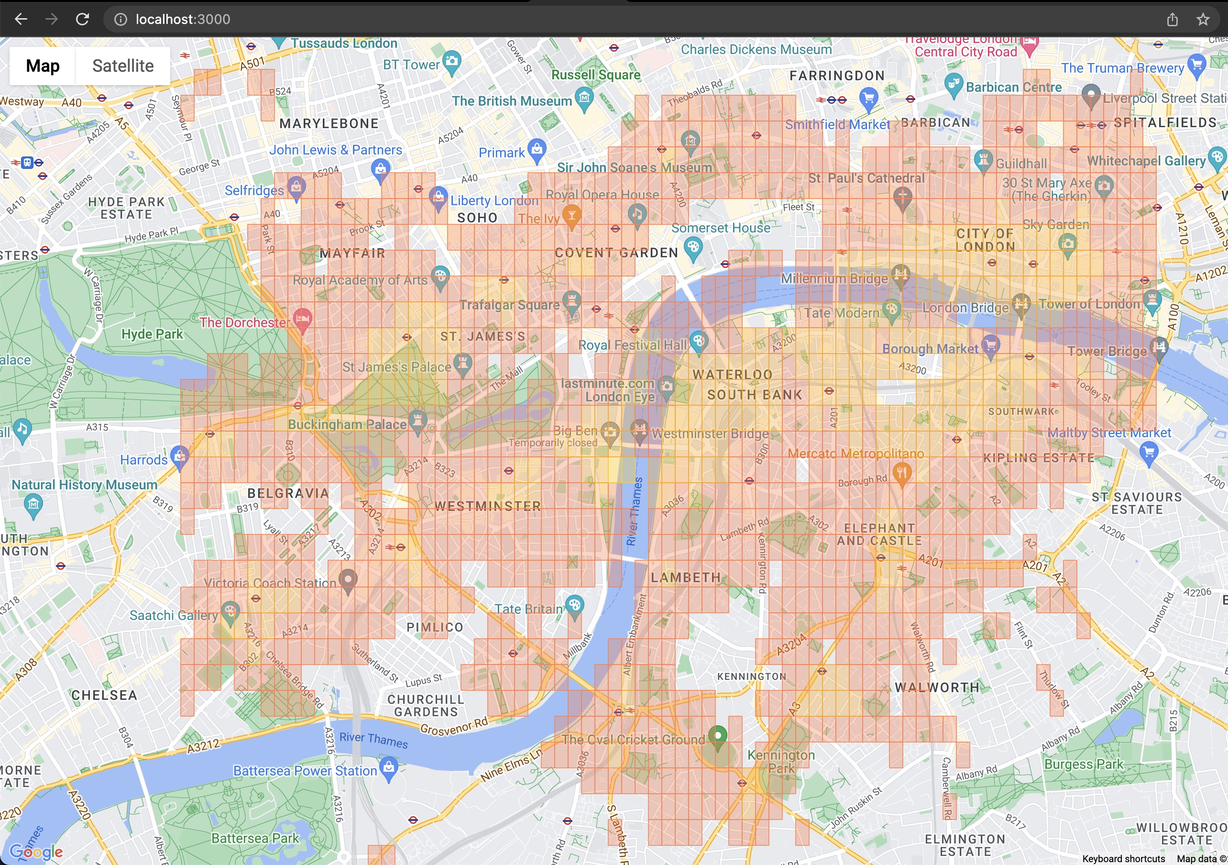
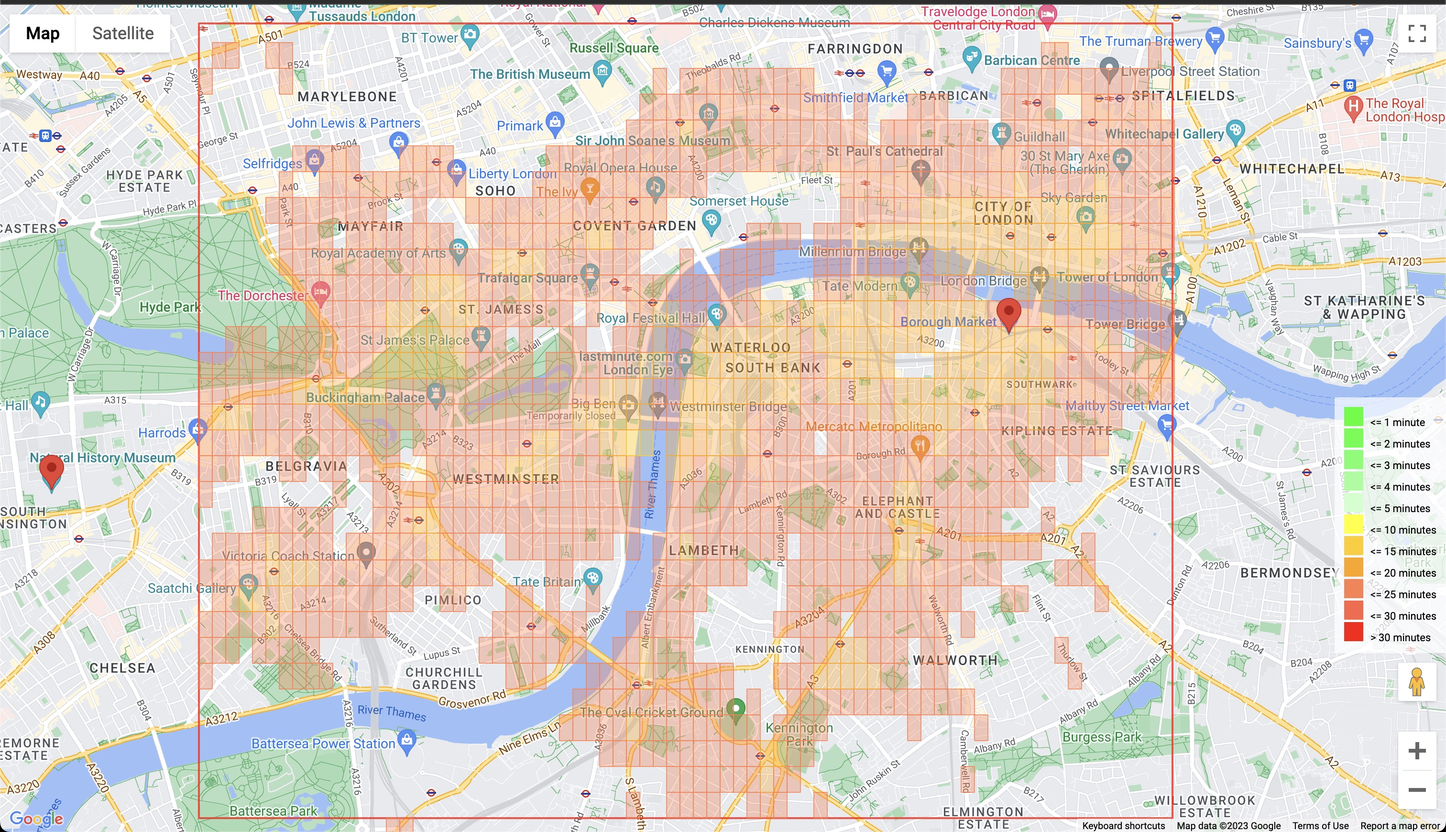
Better example and extraction to constants

diff --git a/public/script.js b/public/script.js
@@ -1,6 +1,25 @@
-function init() {  
-  const tileResolution = 100;
+function init() {
+  // import { TILE_RESOLUTION, DESTINATIONS, POLYGON_COORDS } from './constants.js';
+  const TILE_RESOLUTION = window.TILE_RESOLUTION;
+  const DESTINATIONS = window.DESTINATIONS;
+  const POLYGON_COORDS = window.POLYGON_COORDS;  
+
   const MAX_COMMUTE_TIME_CUTOFF = 25 * 60;
+        
+  const TIME_TO_COLOR_MAP = [  
+    { maxTime: 60, color: '#00FF00', label: '<= 1 minute' },  
+    { maxTime: 120, color: '#33FF33', label: '<= 2 minutes' },  
+    { maxTime: 180, color: '#66FF66', label: '<= 3 minutes' },  
+    { maxTime: 240, color: '#99FF99', label: '<= 4 minutes' },  
+    { maxTime: 300, color: '#CCFFCC', label: '<= 5 minutes' },  
+    { maxTime: 600, color: '#FFFF00', label: '<= 10 minutes' },  
+    { maxTime: 900, color: '#FFCC00', label: '<= 15 minutes' },  
+    { maxTime: 1200, color: '#FFA500', label: '<= 20 minutes' },  
+    { maxTime: 1500, color: '#FF7F50', label: '<= 25 minutes' },  
+    { maxTime: 1800, color: '#FF6347', label: '<= 30 minutes' },  
+    { maxTime: Infinity, color: '#FF0000', label: '> 30 minutes' },  
+  ];  
+
   let map;
 
   async function fetchCommuteTimes() {  
@@ -15,11 +34,52 @@ function init() {
       center: { lat: 51.5074, lng: -0.1278 }, // Center the map on London  
     });
 
+    addDestinations();
+    addPolygon();
+    createLegend();
+
     (async () => {  
       const commuteTimes = await fetchCommuteTimes();  
-      addHeatMap(commuteTimes, tileResolution);  
+      addHeatMap(commuteTimes, TILE_RESOLUTION);  
     })();  
-  } 
+  }
+    
+  function addDestinations() {  
+    DESTINATIONS.forEach((destination) => {  
+      const marker = new google.maps.Marker({  
+        position: destination,  
+        map: map,  
+      });  
+    });  
+  }  
+  
+  function addPolygon() {  
+    const polygon = new google.maps.Polygon({  
+      paths: POLYGON_COORDS,  
+      strokeColor: '#FF0000', // Border color  
+      strokeOpacity: 0.8, // Border opacity  
+      strokeWeight: 2, // Border weight  
+      fillColor: '#FFFFFF', // Fill color (set it to the same as the background color for transparency)  
+      fillOpacity: 0, // Fill opacity (set it to 0 for transparency)  
+      map: map,  
+    });  
+  }
+  
+  function createLegend() {  
+    const legend = document.createElement('div');  
+    legend.id = 'legend';
+    legend.style.backgroundColor = 'rgba(255, 255, 255, 0.7)'; 
+    legend.style.padding = '10px';
+  
+    TIME_TO_COLOR_MAP.forEach((entry) => {  
+      const legendItem = document.createElement('div');  
+      legendItem.innerHTML = `<span style="background-color: ${entry.color}; display: inline-block; width: 20px; height: 20px; margin-right: 5px;"></span> ${entry.label}`;  
+      legend.appendChild(legendItem);  
+    });  
+  
+    document.body.appendChild(legend);  
+    map.controls[google.maps.ControlPosition.RIGHT_BOTTOM].push(legend);  
+  }
     
   function addHeatMap(commuteTimes, tileResolution) {  
     const heatmapData = [];  
@@ -63,34 +123,11 @@ function init() {
         west: point.lng(),  
       },  
     });  
-  }  
-    
+  }
+  
   function getColorByCommuteTime(time) {  
-    // Customize this function to return a color based on the commute time  
-    if (time <= 60) {  
-      return "#00FF00"; // Green for <= 1 minute  
-    } else if (time <= 120) {  
-      return "#33FF33"; // Light green for <= 2 minutes  
-    } else if (time <= 180) {  
-      return "#66FF66"; // Lighter green for <= 3 minutes  
-    } else if (time <= 240) {  
-      return "#99FF99"; // Even lighter green for <= 4 minutes  
-    } else if (time <= 300) {  
-      return "#CCFFCC"; // Very light green for <= 5 minutes  
-    } else if (time <= 600) {  
-      return "#FFFF00"; // Yellow for <= 10 minutes  
-    } else if (time <= 900) {  
-      return "#FFCC00"; // Light orange for <= 15 minutes  
-    } else if (time <= 1200) {  
-      return "#FFA500"; // Orange for <= 20 minutes  
-    } else if (time <= 1500) {  
-      return "#FF7F50"; // Coral for <= 25 minutes  
-    } else if (time <= 1800) {  
-      return "#FF6347"; // Tomato for <= 30 minutes  
-    } else {  
-      return "#FF0000"; // Red for > 30 minutes  
-    }  
-  }    
+    return TIME_TO_COLOR_MAP.find((entry) => time <= entry.maxTime).color;  
+  }
 
   (async () => {  
     initMap();

diff --git a/generateCommuteTimes.js b/generateCommuteTimes.js
@@ -1,4 +1,5 @@
 require('dotenv').config();
+const {TILE_RESOLUTION, DESTINATIONS, POLYGON_COORDS} = require('./public/constants.js'); 
 process.env.NODE_TLS_REJECT_UNAUTHORIZED = '0';  
 
 const e = require('express');
@@ -9,43 +10,6 @@ const googleMapsClient = require('@google/maps').createClient({
   key: apiKey,  
   Promise: Promise  
 });
-
-const tileResolution = 100
-
-// Note that if you change the destinations or the polygon you should delete the cached commute times
-// otherwise you will have overlapping tiles
-const destRawCoords = [
-  // taken from Google Maps
-  [51.4967146,-0.1827168], // Natural History museum
-  [51.5035647,-0.0942226] // Borough Market
-]
-const destinations = destRawCoords.map((rawCoord) => ({ lat: rawCoord[0], lng: rawCoord[1] }));
-
-const polygonRawCoords = [
-  // generated with https://geojson.io/
-  // NOTE: the order of the coordinates is generated differently than Google Maps
-  [
-    -0.16317578466919258,
-    51.5229519226049
-  ],
-  [
-    -0.16317578466919258,
-    51.478555677678855
-  ],
-  [
-    -0.07575795835097665,
-    51.478555677678855
-  ],
-  [
-    -0.07575795835097665,
-    51.5229519226049
-  ],
-  [
-    -0.16317578466919258,
-    51.5229519226049
-  ]
-];
-const polygonCoords = polygonRawCoords.map((rawCoord) => ({ lat: rawCoord[1], lng: rawCoord[0] }));
 
 function generateGridPoints(polygonCoords, resolution) {  
   const bounds = polygonCoords.reduce(  
@@ -84,7 +48,7 @@ function generateGridPoints(polygonCoords, resolution) {
   return gridPoints;
 }  
 
-const gridPoints = generateGridPoints(polygonCoords, tileResolution);  
+const gridPoints = generateGridPoints(POLYGON_COORDS, TILE_RESOLUTION);  
 
 const ELEMENTS_LIMIT = 1000; // Maximum number of elements per second  
 const REQUEST_DELAY = 1000; // Delay between requests in milliseconds  
@@ -181,7 +145,7 @@ function loadApiResponseFromFile(key) {
 
 (async () => {  
   try {  
-    await calculateCommuteTimes(gridPoints, destinations);  
+    await calculateCommuteTimes(gridPoints, DESTINATIONS);  
     console.log('Commute times calculation completed.');  
   } catch (error) {  
     console.error('An error occurred while calculating commute times:', error);  

diff --git a/public/constants.js b/public/constants.js
@@ -1,8 +1,52 @@
-const tileResolution = 200; // Tile resolution in square meters  
-    
-  if (typeof module !== "undefined") {  
-    module.exports = { tileResolution };  
-  } else {  
-    window.tileResolution = tileResolution;  
-  }  
-  
+const TILE_RESOLUTION = 100;
+
+// Note that if you change the destinations or the polygon you should delete the cached commute times
+// otherwise you will have overlapping tiles
+const destRawCoords = [
+    // taken from Google Maps
+    [51.49686188896353, -0.17635646327104795], // Natural History museum
+    [51.50563813269474, -0.09047423464310923] // Borough Market
+  ]
+const DESTINATIONS = destRawCoords.map((rawCoord) => ({ lat: rawCoord[0], lng: rawCoord[1] }));
+
+const polygonRawCoords = [
+    // generated with https://geojson.io/
+    // NOTE: the order of the coordinates is generated differently than Google Maps
+    [
+    -0.16317578466919258,
+    51.5229519226049
+    ],
+    [
+    -0.16317578466919258,
+    51.478555677678855
+    ],
+    [
+    -0.07575795835097665,
+    51.478555677678855
+    ],
+    [
+    -0.07575795835097665,
+    51.5229519226049
+    ],
+    [
+    -0.16317578466919258,
+    51.5229519226049
+    ]
+];
+const POLYGON_COORDS = polygonRawCoords.map((rawCoord) => ({ lat: rawCoord[1], lng: rawCoord[0] }));
+
+var context = (typeof exports != "undefined") ? exports : window;
+context.TILE_RESOLUTION = TILE_RESOLUTION;
+context.DESTINATIONS = DESTINATIONS;
+context.POLYGON_COORDS = POLYGON_COORDS;
+// module.exports = {  
+//     TILE_RESOLUTION,  
+//     DESTINATIONS,
+//     POLYGON_COORDS,  
+// };
+
+// export {  
+//   TILE_RESOLUTION,  
+//   DESTINATIONS,  
+//   POLYGON_COORDS,  
+// };  
